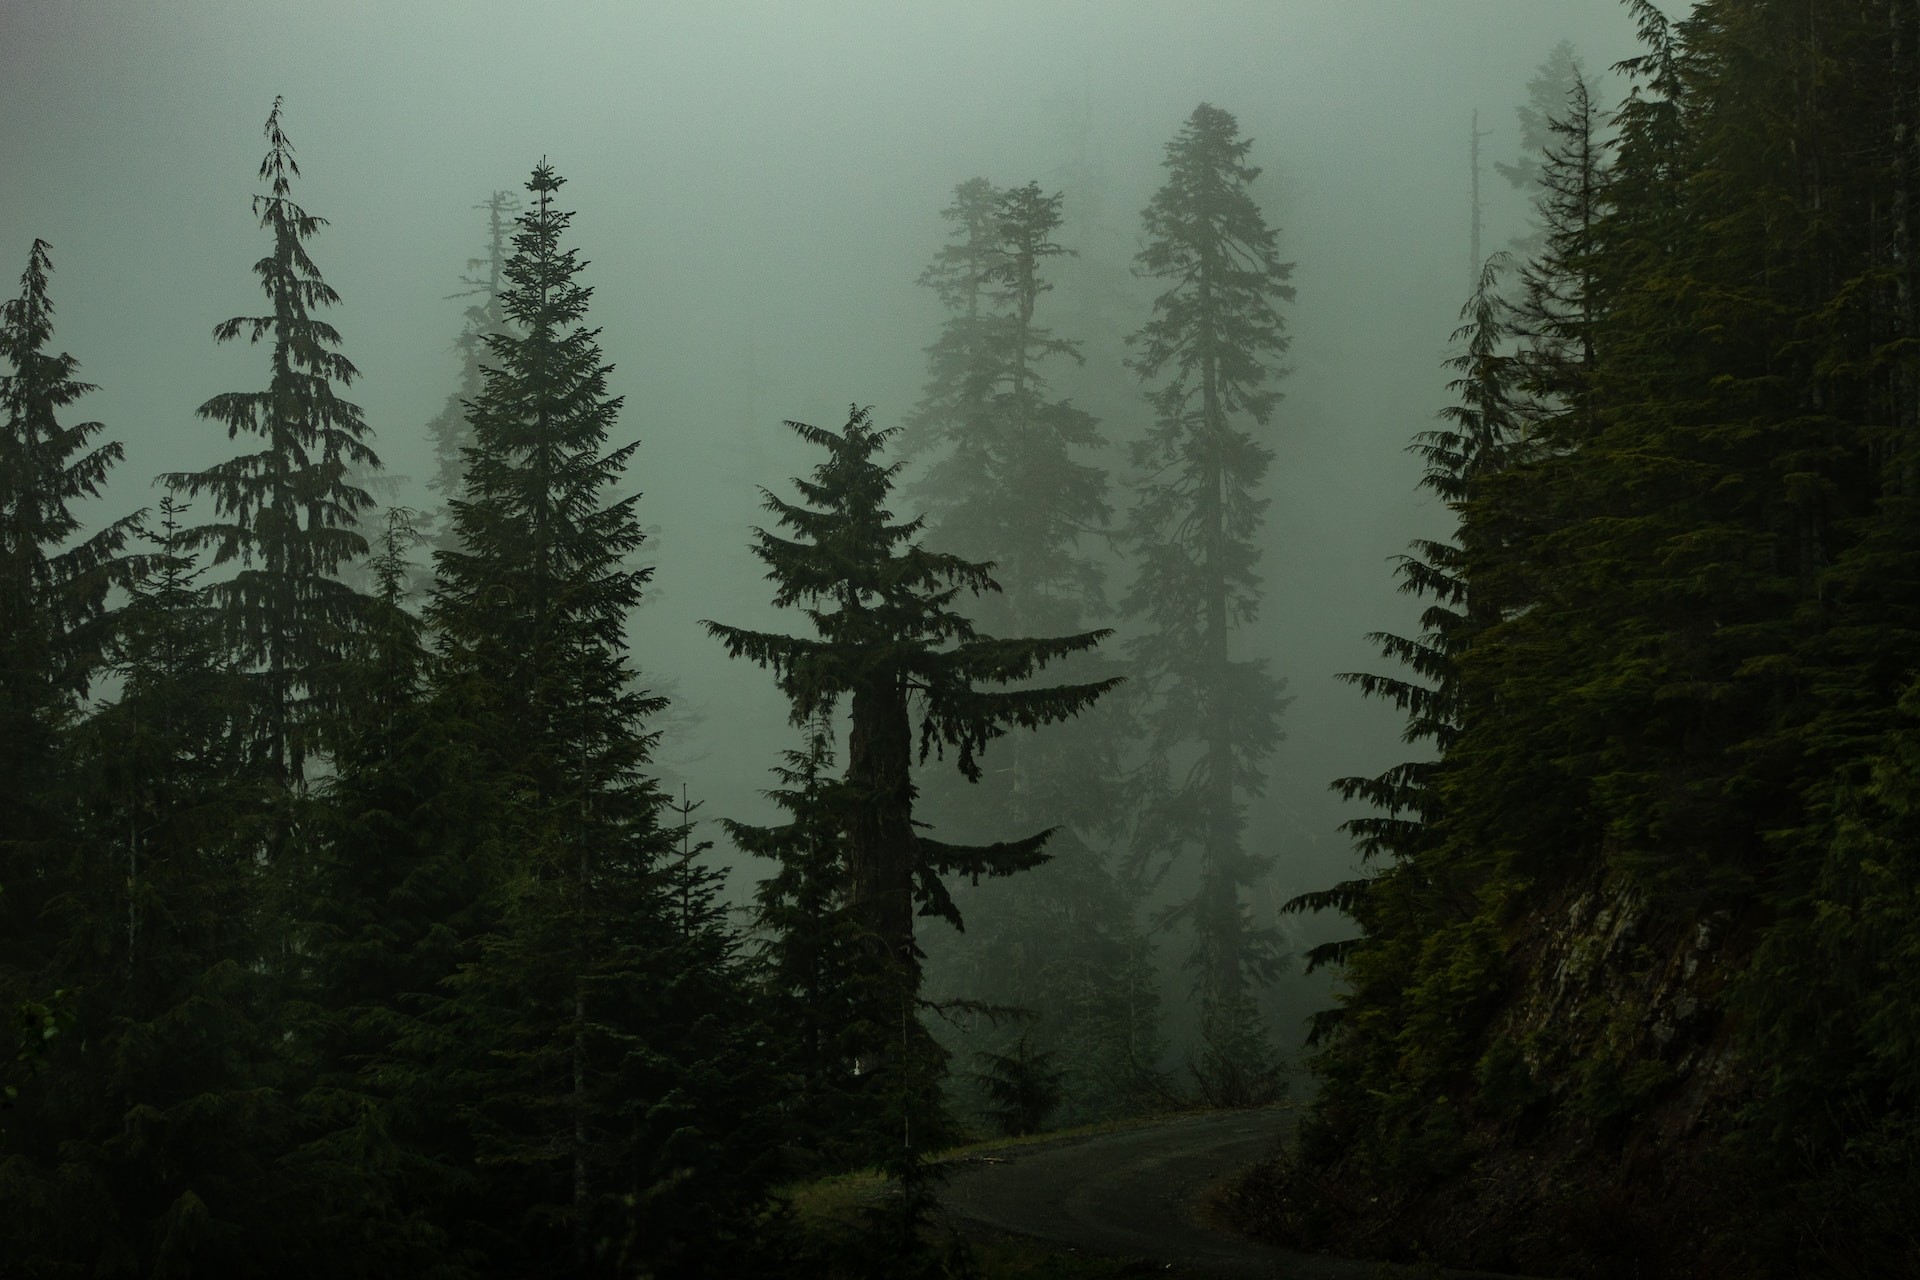
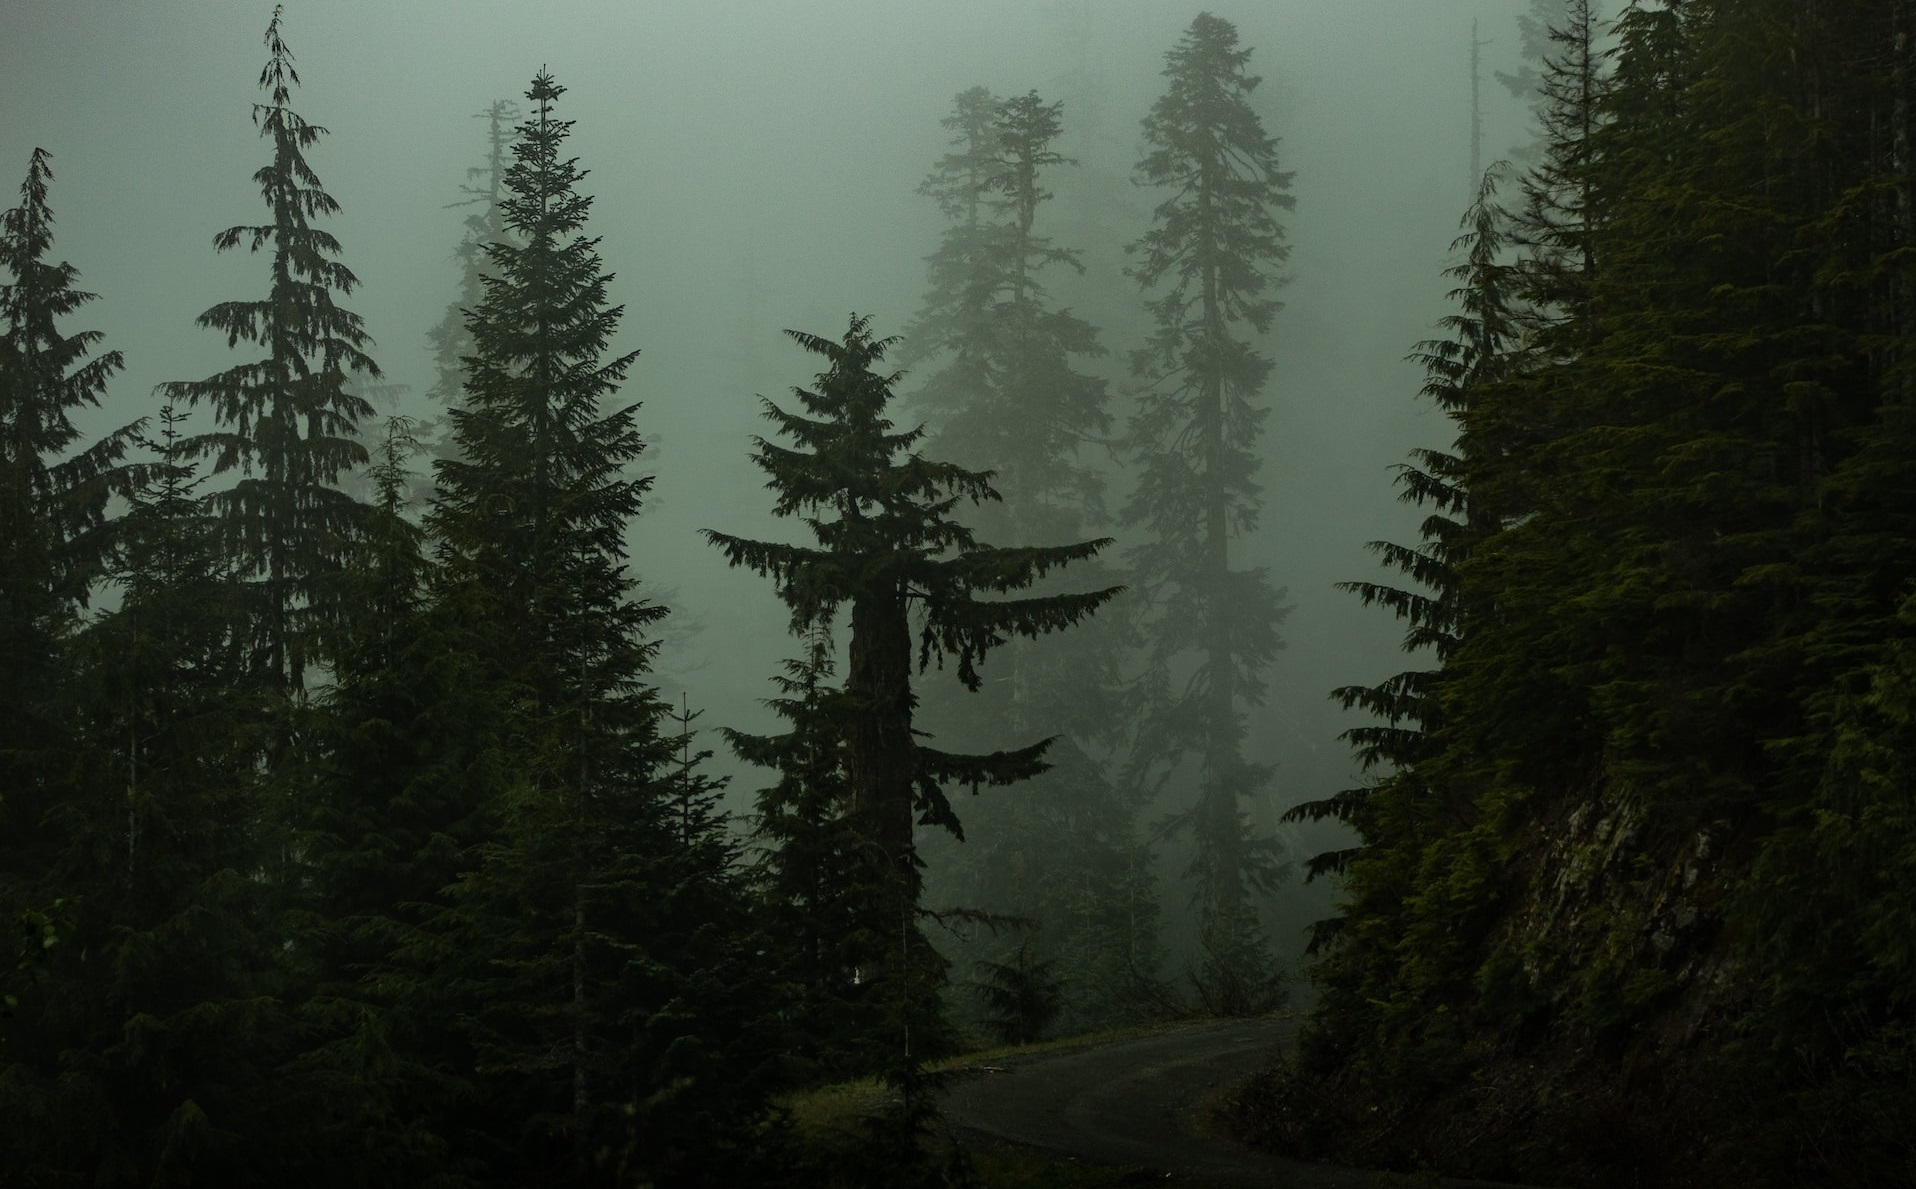
mobile background updated

diff --git a/client/src/index.css b/client/src/index.css
@@ -8,15 +8,14 @@ body {
   width: 100%;
   background-color: black;
   background: url('../public/photos/background.jpg') no-repeat center center fixed; 
+  position: relative;
+  background-repeat:no-repeat;
+  background-size:100% 100vh;
   -webkit-font-smoothing: antialiased;
   -moz-osx-font-smoothing: grayscale;
   color: white;
   text-align: center;
   font-family: 'Signika Negative', sans-serif;
-  -webkit-background-size: cover;
-  -moz-background-size: cover;
-  -o-background-size: cover;
-  background-size: cover;
   text-shadow: 1px 1px 2px black;
 }
 
@@ -321,4 +320,20 @@ button {
 @keyframes animate-fade {
   0% { opacity: 0; }
   100% { opacity: 1; }
+}
+
+@media (max-width: 768px) {
+  body {
+    background: none; 
+    background-color: rgb(154, 187, 167);
+  }
+
+  body {
+    background: url('../public/photos/background_mini.jpg') no-repeat center center fixed; 
+    -webkit-background-size: cover;
+    -moz-background-size: cover;
+    -o-background-size: cover;
+    background-size: cover;
+  }
+
 }
